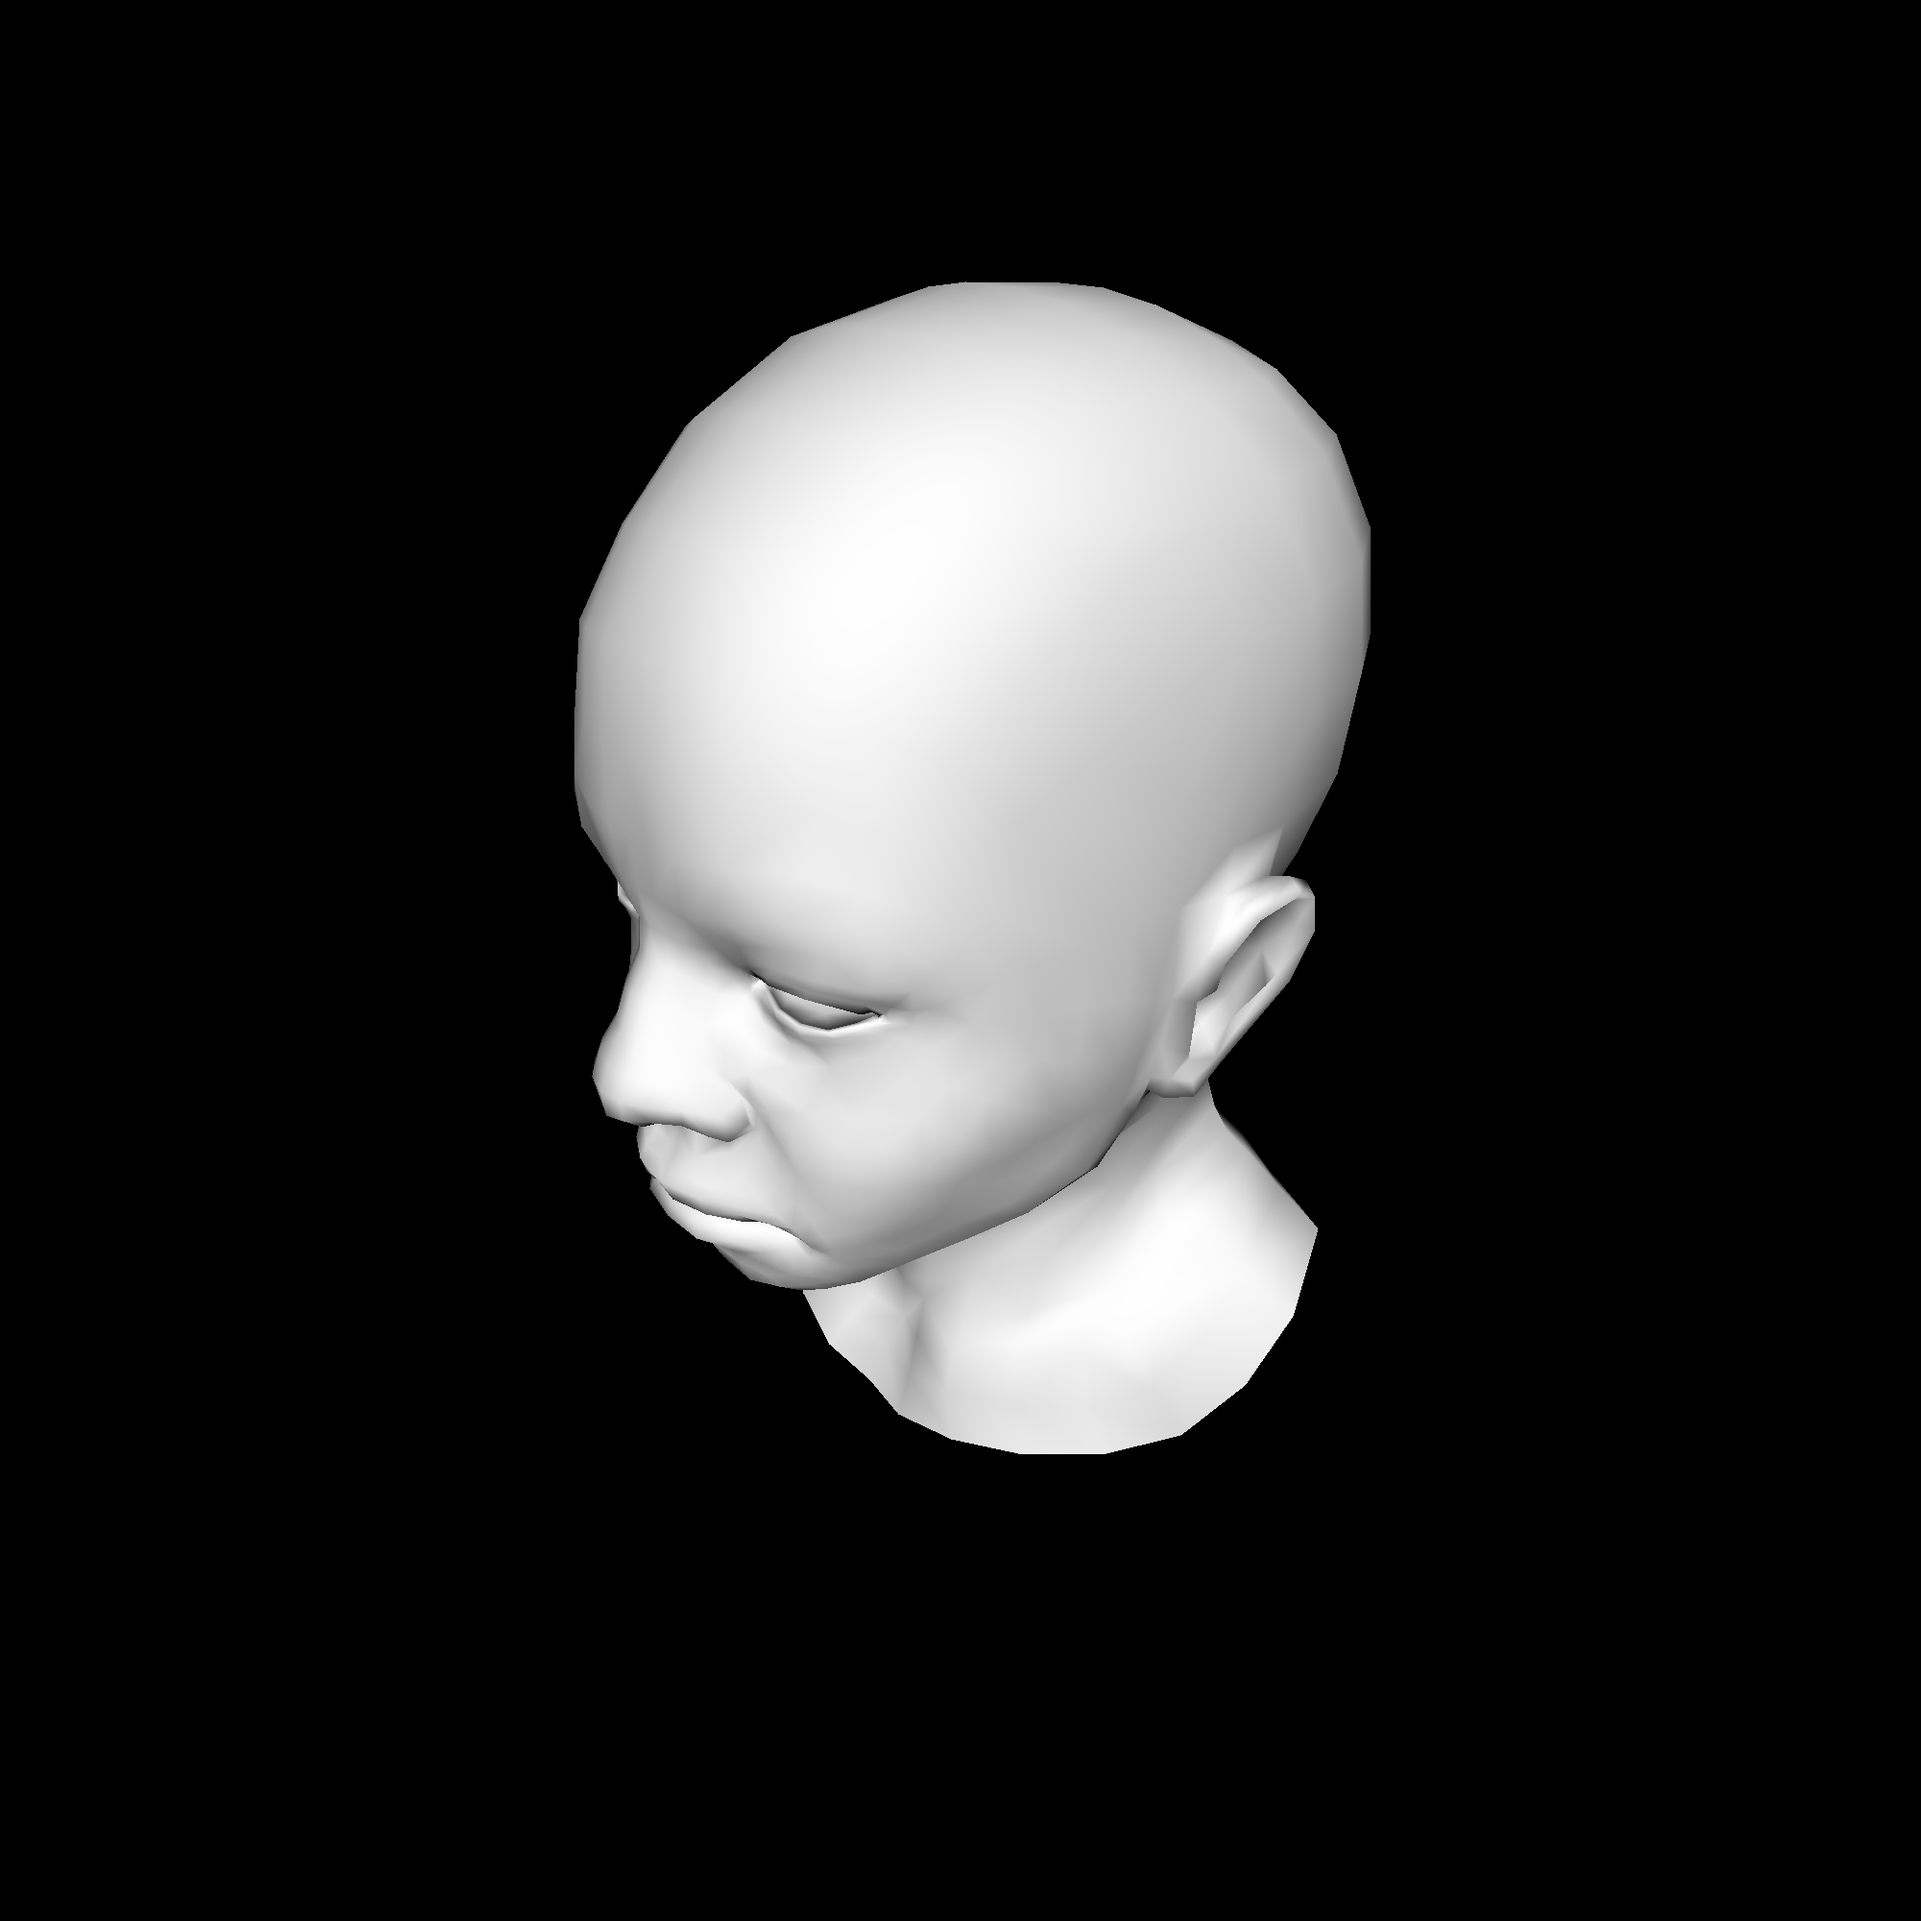
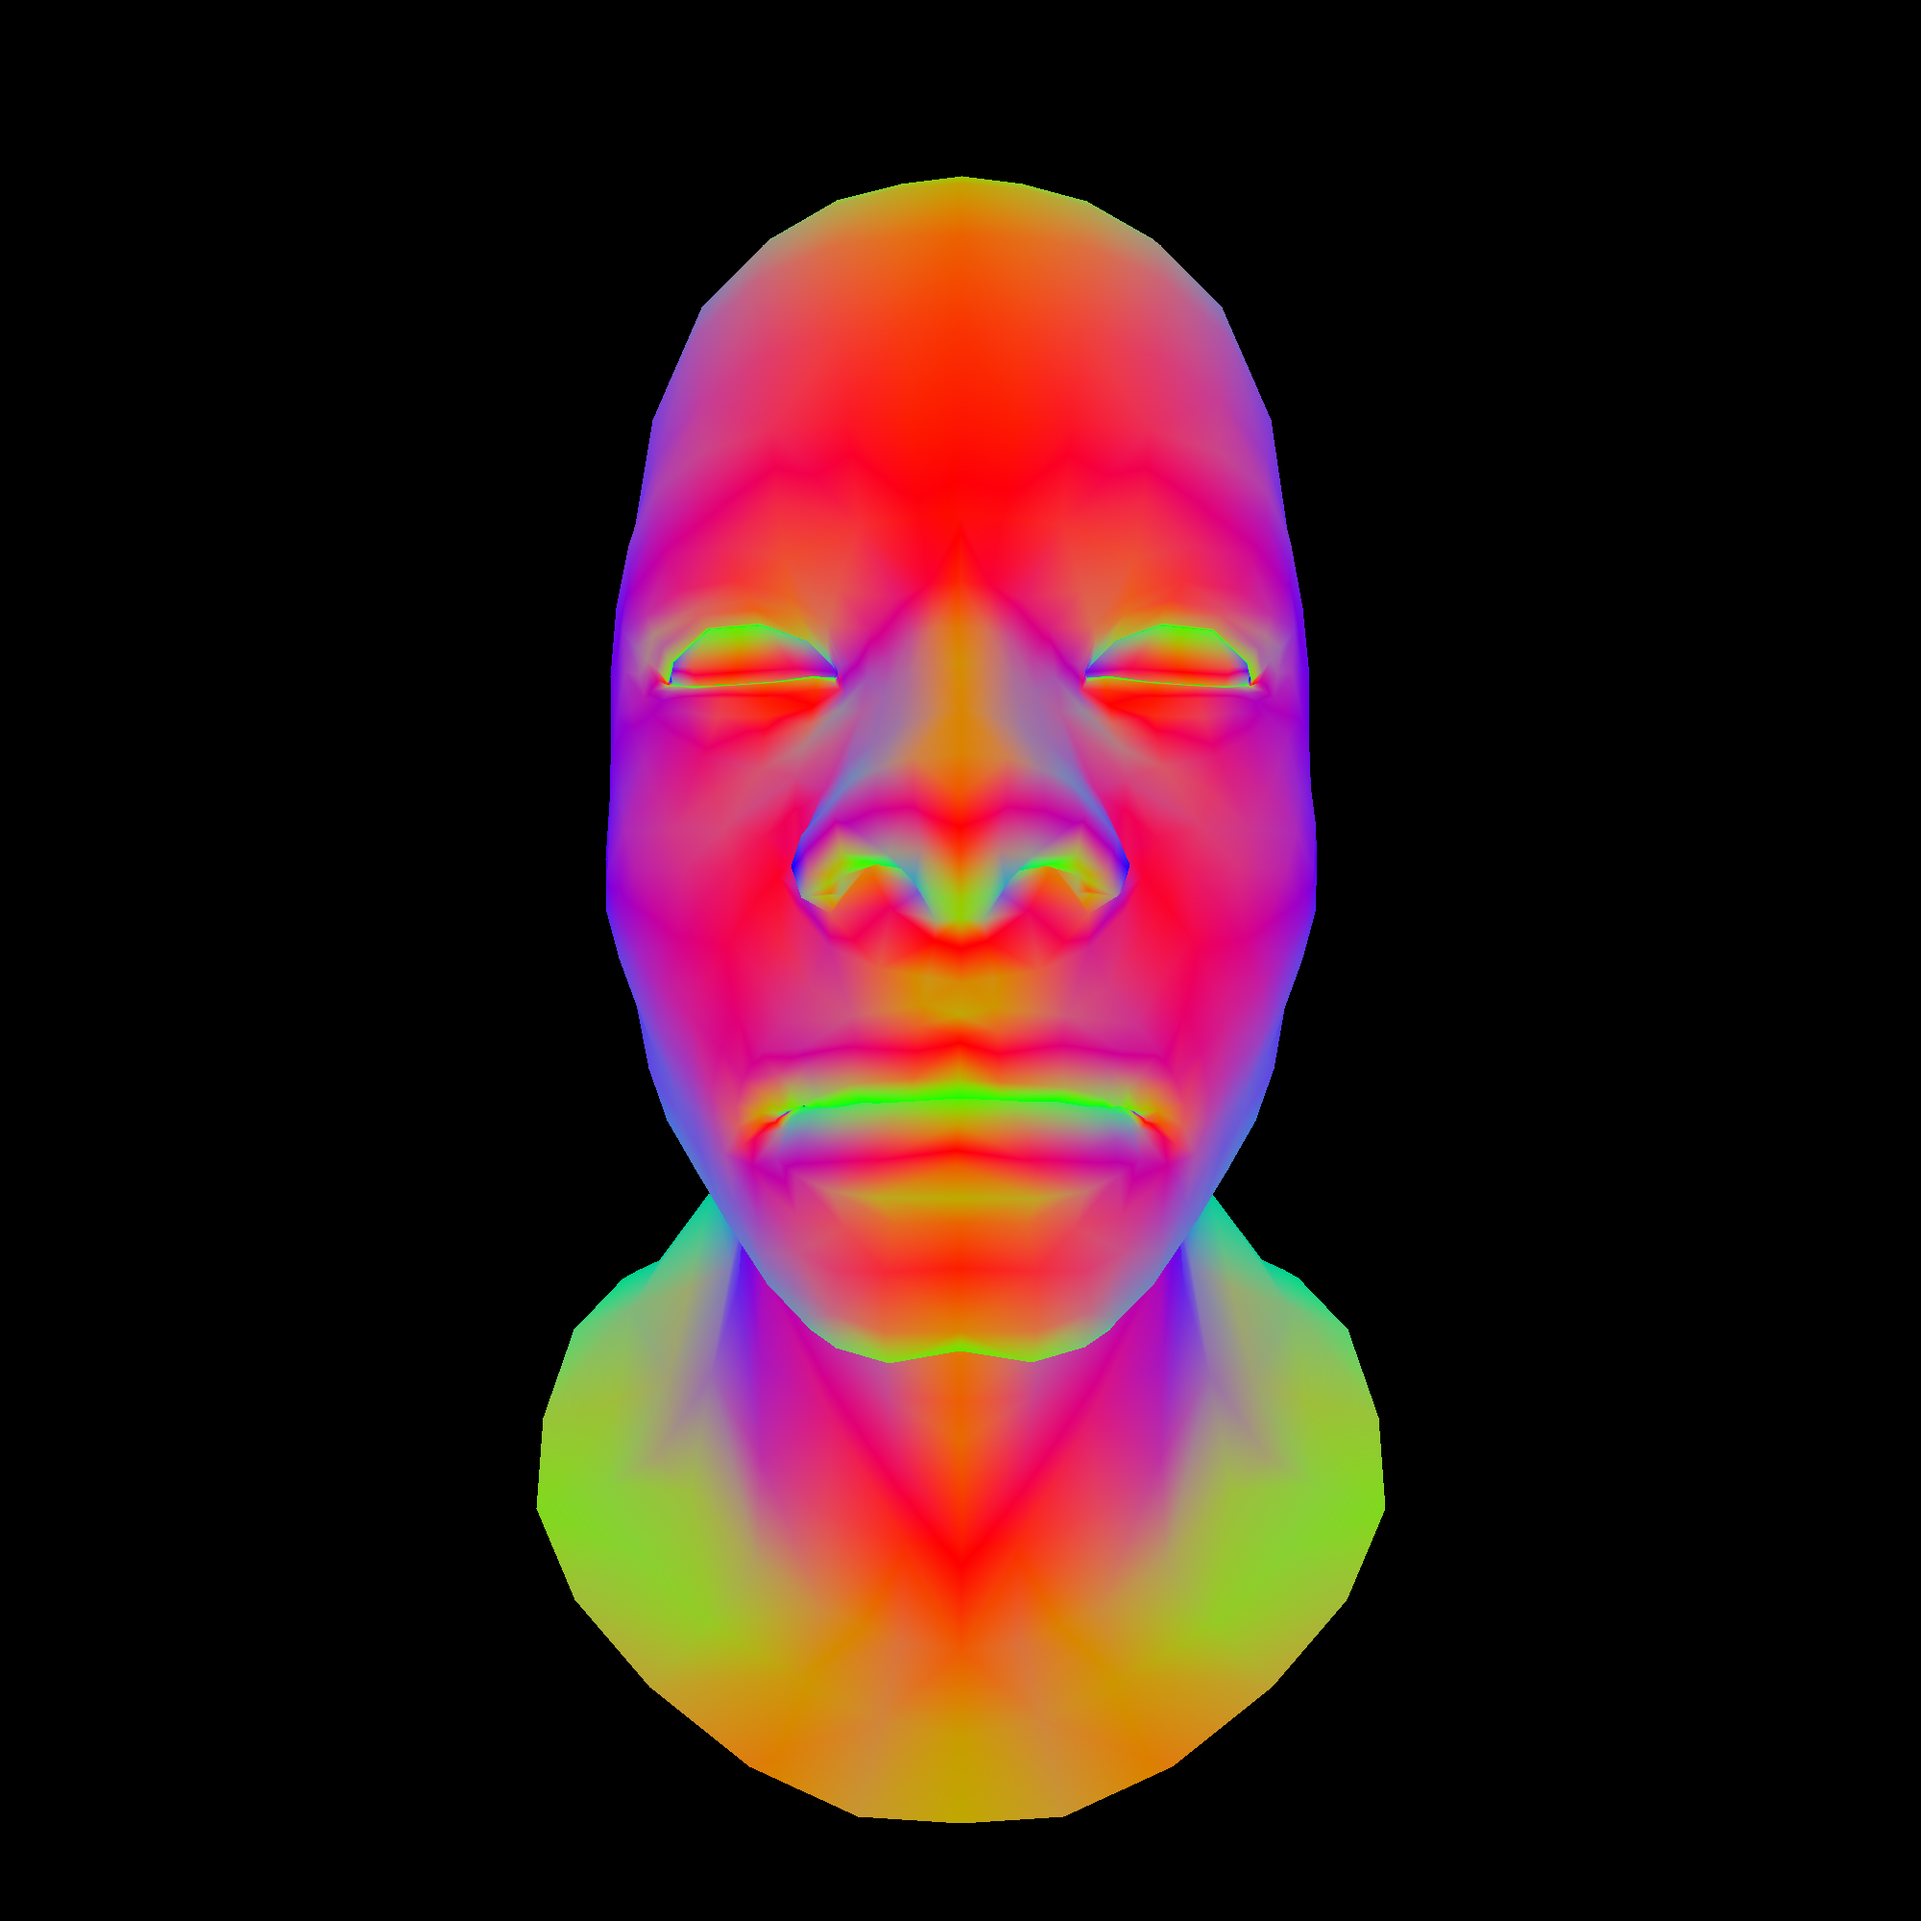
раскрашенная голова -- конфетка

Changed region(s): [[0.279, 0.093, 0.744, 0.961]]

diff --git a/src/obj/ObjReader.java b/src/obj/ObjReader.java
@@ -1,7 +1,9 @@
 package obj;
 
 import java.util.ArrayList;
+import java.util.HashMap;
 import java.util.List;
+import java.util.Map;
 import java.util.regex.Matcher;
 import java.util.regex.Pattern;
 
@@ -19,12 +21,56 @@ public class ObjReader {
 
   static Pattern vertexTexturePattern = Pattern.compile("vt\\s+(\\S+)\\s+(\\S+)\\s+(\\S+)");
 
+  static class PolygonIndices {
+    public final Integer a;
+    public final Integer b;
+    public final Integer c;
+
+    public final Integer textureA;
+    public final Integer textureB;
+    public final Integer textureC;
+
+    public final Integer normalA;
+    public final Integer normalB;
+    public final Integer normalC;
+
+    PolygonIndices(String a, String b, String c) {
+      String[] partsA = a.split("/");
+      String[] partsB = b.split("/");
+      String[] partsC = c.split("/");
+
+      this.a = Integer.parseInt(partsA[0]) - 1;
+      this.b = Integer.parseInt(partsB[0]) - 1;
+      this.c = Integer.parseInt(partsC[0]) - 1;
+
+      if (partsA.length >= 2) {
+        this.textureA = Integer.parseInt(partsA[1]) - 1;
+        this.textureB = Integer.parseInt(partsB[1]) - 1;
+        this.textureC = Integer.parseInt(partsC[1]) - 1;
+      } else {
+        this.textureA = null;
+        this.textureB = null;
+        this.textureC = null;
+      }
+
+      if (partsA.length >= 3) {
+        this.normalA = Integer.parseInt(partsA[2]) - 1;
+        this.normalB = Integer.parseInt(partsB[2]) - 1;
+        this.normalC = Integer.parseInt(partsC[2]) - 1;
+      } else {
+        this.normalA = null;
+        this.normalB = null;
+        this.normalC = null;
+      }
+    }
+  }
+
   public static List<Polygon> parseFile(String filename) {
     InputReader in = new InputReader(filename);
 
-    List<Polygon> polygons = new ArrayList<>();
     List<Vector> vertices = new ArrayList<>();
     List<Vector> normalVectors = new ArrayList<>();
+    List<PolygonIndices> polygonIndices = new ArrayList<>();
 
     Matcher m;
 
@@ -59,62 +105,91 @@ public class ObjReader {
 
       m = polygonPattern3.matcher(line);
       if (m.matches()) {
-        String[] parts1 = m.group(1).split("/");
-        String[] parts2 = m.group(2).split("/");
-        String[] parts3 = m.group(3).split("/");
-
-        Vector vertex1 = vertices.get(Integer.parseInt(parts1[0]) - 1);
-        Vector vertex2 = vertices.get(Integer.parseInt(parts2[0]) - 1);
-        Vector vertex3 = vertices.get(Integer.parseInt(parts3[0]) - 1);
-
-        Vector normal1 = normalVectors.get(Integer.parseInt(parts1[2]) - 1);
-        Vector normal2 = normalVectors.get(Integer.parseInt(parts2[2]) - 1);
-        Vector normal3 = normalVectors.get(Integer.parseInt(parts3[2]) - 1);
-
-        polygons.add(new Polygon(
-            vertex1,
-            vertex2,
-            vertex3,
-            normal1,
-            normal2,
-            normal3
+        polygonIndices.add(new PolygonIndices(
+            m.group(1),
+            m.group(2),
+            m.group(3)
         ));
       }
 
       m = polygonPattern4.matcher(line);
       if (m.matches()) {
-        String[] parts1 = m.group(1).split("/");
-        String[] parts2 = m.group(2).split("/");
-        String[] parts3 = m.group(3).split("/");
-        String[] parts4 = m.group(4).split("/");
-
-        Vector vertex1 = vertices.get(Integer.parseInt(parts1[0]) - 1);
-        Vector vertex2 = vertices.get(Integer.parseInt(parts2[0]) - 1);
-        Vector vertex3 = vertices.get(Integer.parseInt(parts3[0]) - 1);
-        Vector vertex4 = vertices.get(Integer.parseInt(parts4[0]) - 1);
-
-        Vector normal1 = normalVectors.get(Integer.parseInt(parts1[2]) - 1);
-        Vector normal2 = normalVectors.get(Integer.parseInt(parts2[2]) - 1);
-        Vector normal3 = normalVectors.get(Integer.parseInt(parts3[2]) - 1);
-        Vector normal4 = normalVectors.get(Integer.parseInt(parts4[2]) - 1);
-
-        polygons.add(new Polygon(
-            vertex1,
-            vertex2,
-            vertex3,
-            normal1,
-            normal2,
-            normal3
+        polygonIndices.add(new PolygonIndices(
+            m.group(1),
+            m.group(2),
+            m.group(3)
         ));
-        polygons.add(new Polygon(
-            vertex1,
-            vertex3,
-            vertex4,
-            normal1,
-            normal3,
-            normal4
+        polygonIndices.add(new PolygonIndices(
+            m.group(1),
+            m.group(2),
+            m.group(4)
         ));
       }
+    }
+
+    Map<Integer, List<Integer>> vertexToTouchingPolygons = new HashMap<>();
+    for (int i = 0; i < vertices.size(); i++) {
+      vertexToTouchingPolygons.put(i, new ArrayList<>());
+    }
+
+    List<Vector> computedPolygonNormals = new ArrayList<>();
+    for (int i = 0; i < polygonIndices.size(); i++) {
+      PolygonIndices poly = polygonIndices.get(i);
+      vertexToTouchingPolygons.get(poly.a).add(i);
+      vertexToTouchingPolygons.get(poly.b).add(i);
+      vertexToTouchingPolygons.get(poly.c).add(i);
+
+      Vector a = vertices.get(poly.a);
+      Vector b = vertices.get(poly.b);
+      Vector c = vertices.get(poly.c);
+
+      Vector ab = G.subtract(b, a);
+      Vector ac = G.subtract(c, a);
+      Vector normal = G.vectorProduct(ab, ac);
+      normal = G.normalize(normal);
+
+      computedPolygonNormals.add(normal);
+    }
+
+    List<Vector> computedVertexNormals = new ArrayList<>();
+    for (int i = 0; i < vertices.size(); i++) {
+      Vector normal = Vector.zero;
+
+      List<Integer> touchingPolygons = vertexToTouchingPolygons.get(i);
+
+      for (Integer touchingPolygonIndex : touchingPolygons) {
+        normal = G.add(normal, computedPolygonNormals.get(touchingPolygonIndex));
+      }
+
+      if (G.isZero(normal)) {
+        System.out.println("BAD");
+        normal = Vector.oX;
+      }
+
+      normal = G.normalize(normal);
+      computedVertexNormals.add(normal);
+    }
+
+    List<Polygon> polygons = new ArrayList<>();
+
+    for (PolygonIndices poly : polygonIndices) {
+      Vector a = vertices.get(poly.a);
+      Vector b = vertices.get(poly.b);
+      Vector c = vertices.get(poly.c);
+
+      Vector aNormal = computedVertexNormals.get(poly.a);
+      Vector bNormal = computedVertexNormals.get(poly.b);
+      Vector cNormal = computedVertexNormals.get(poly.c);
+
+      if (poly.normalA != null) {
+        aNormal = normalVectors.get(poly.a);
+        bNormal = normalVectors.get(poly.b);
+        cNormal = normalVectors.get(poly.c);
+      }
+
+      polygons.add(new Polygon(
+          a, b, c, aNormal, bNormal, cNormal
+      ));
     }
 
     return scaleShift01(polygons);
